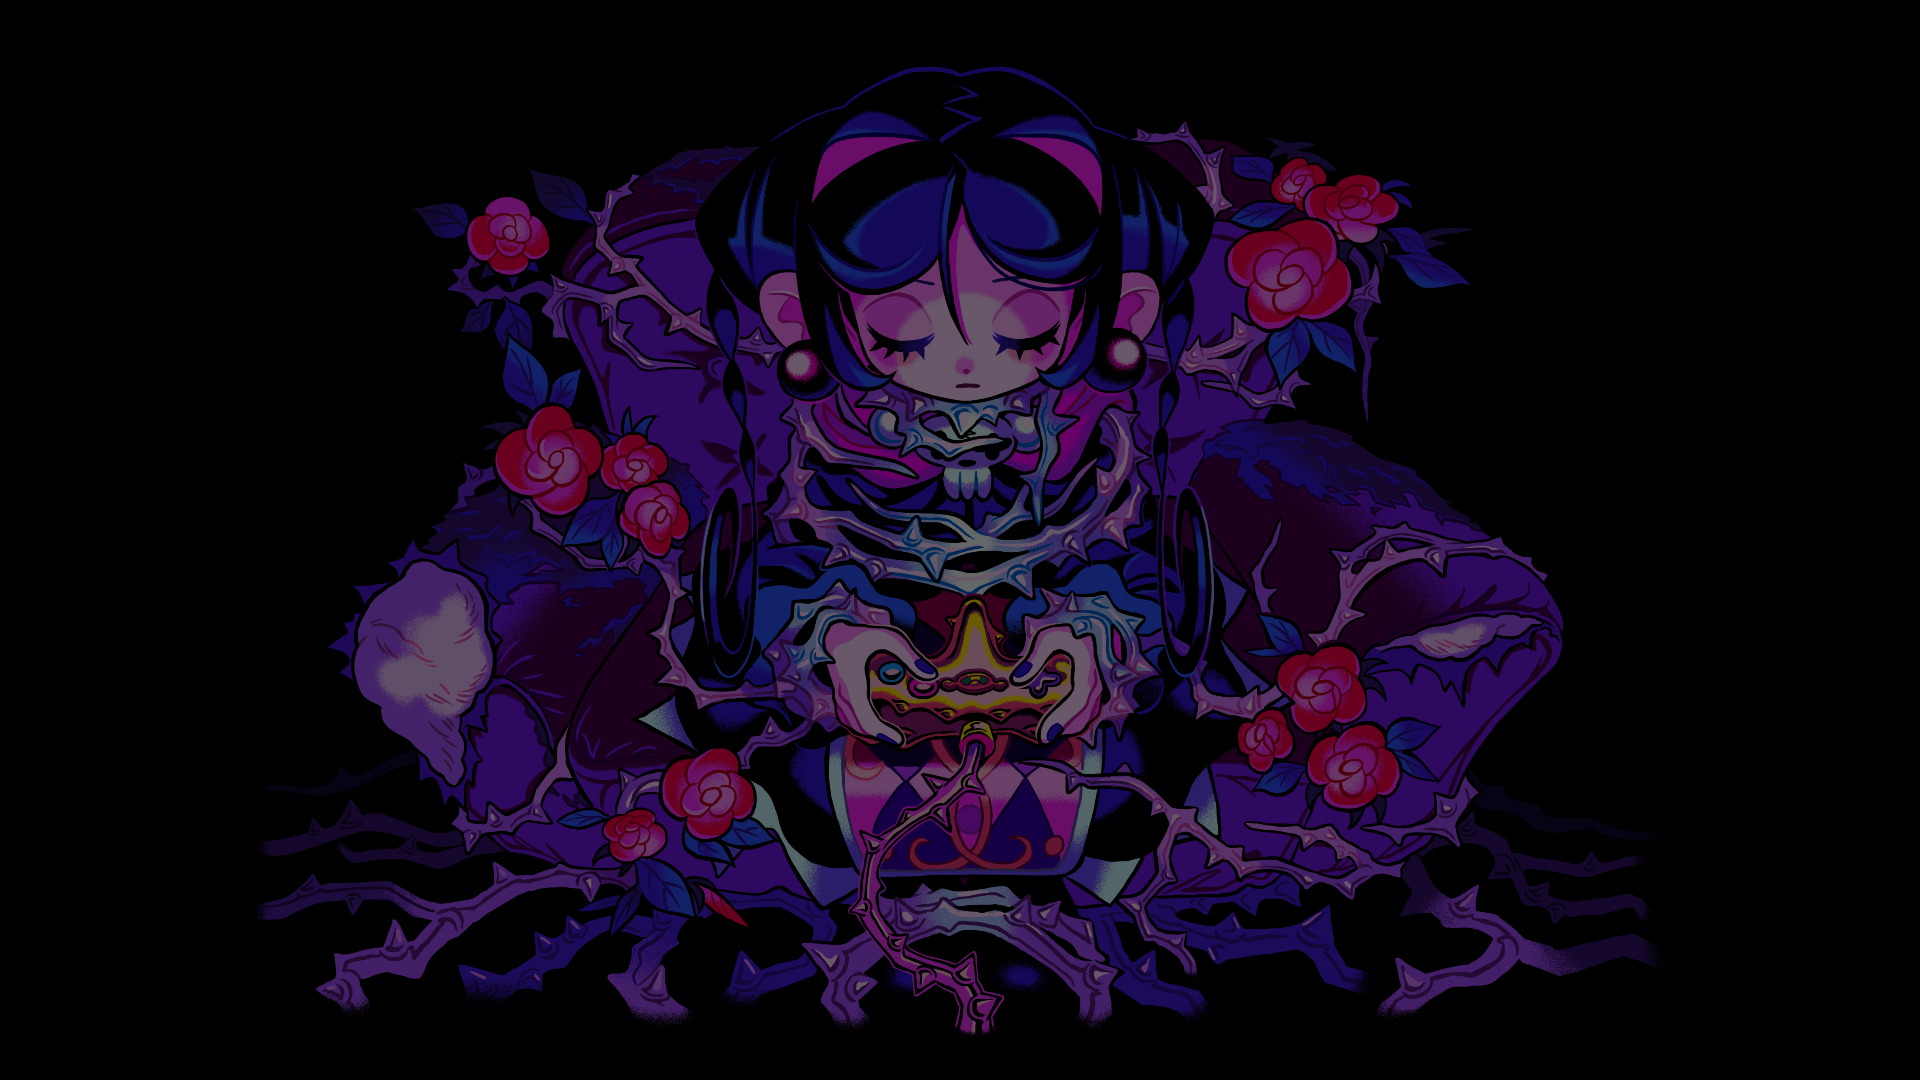
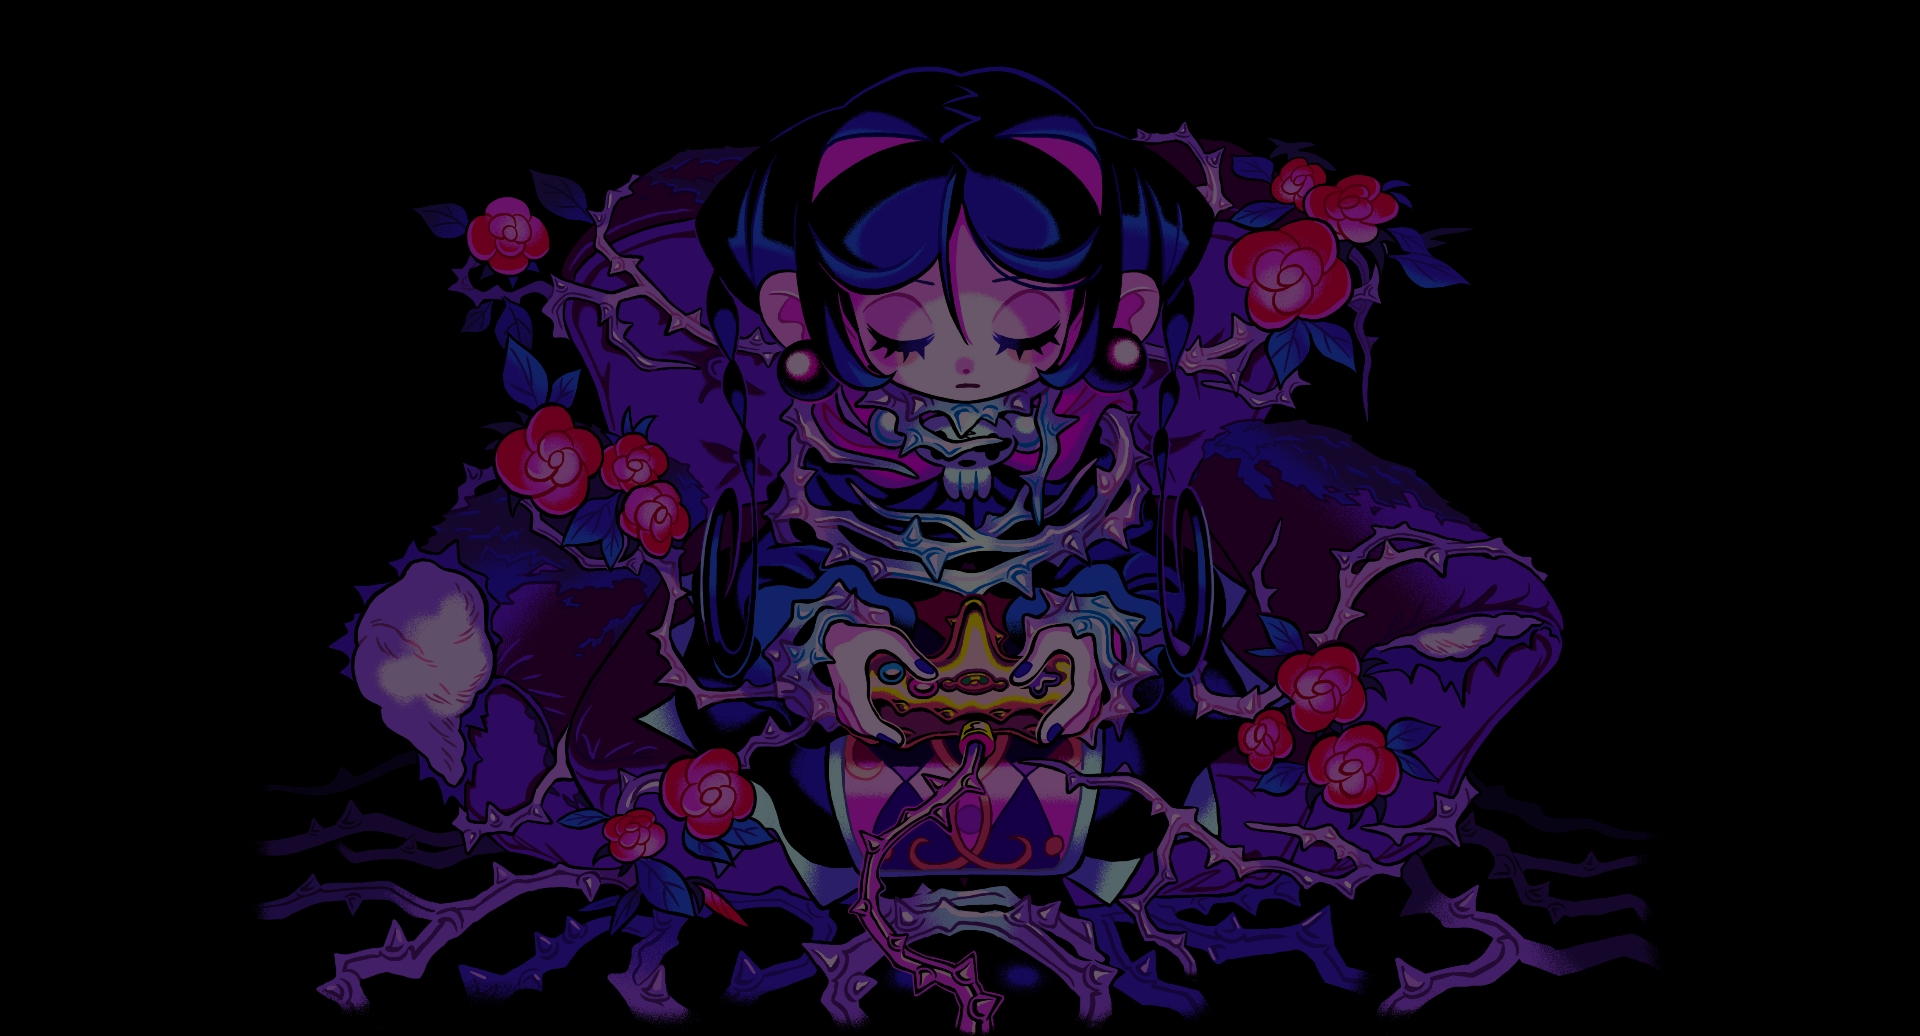
minor css update

Changed region(s): [[0.125, 0.0618, 0.875, 1.0]]

diff --git a/css/style.css b/css/style.css
@@ -49,8 +49,10 @@ body{
 	text-align: center;
 	font-family: "novaflat",Georgia, arial;
 	background-color: #151515;
-	background: url('../bg.png') fixed;
-	background-size: 100%;
+	background: url('../bg.png') fixed no-repeat, black;
+	background-size: 90%;
+	background-position-x: 50%;
+	background-position-y: 100%;
 	color: ghostwhite;
 	margin: 0;
 }
@@ -116,4 +118,12 @@ td{
 
 .lyrics{
 	font-size: 1.3em;
+}
+
+@media (max-width: 1000px){
+	body{
+		background-size: 125%;
+		background-position-x: 50%;
+		background-position-y: 100%;
+	}
 }
